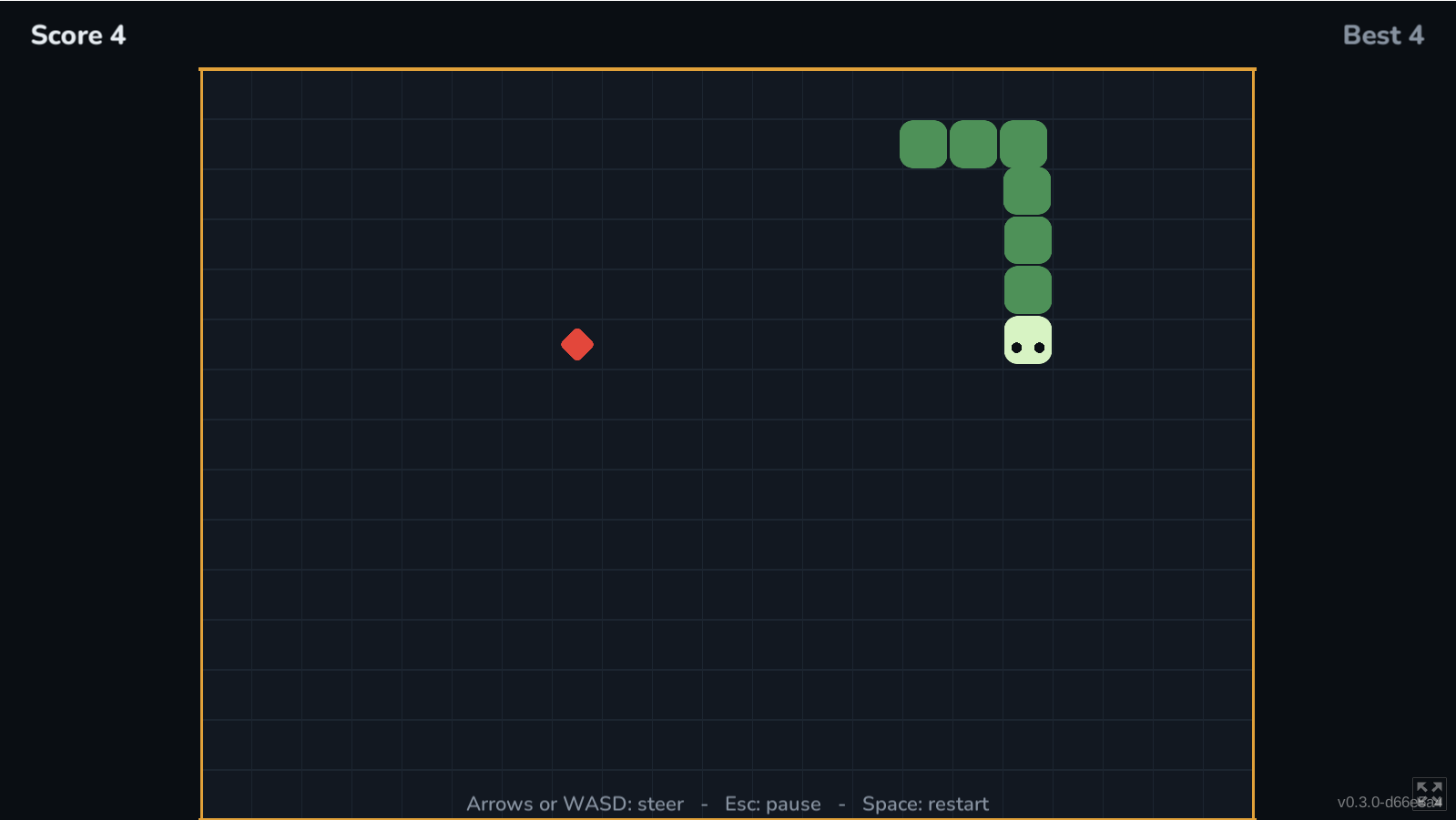
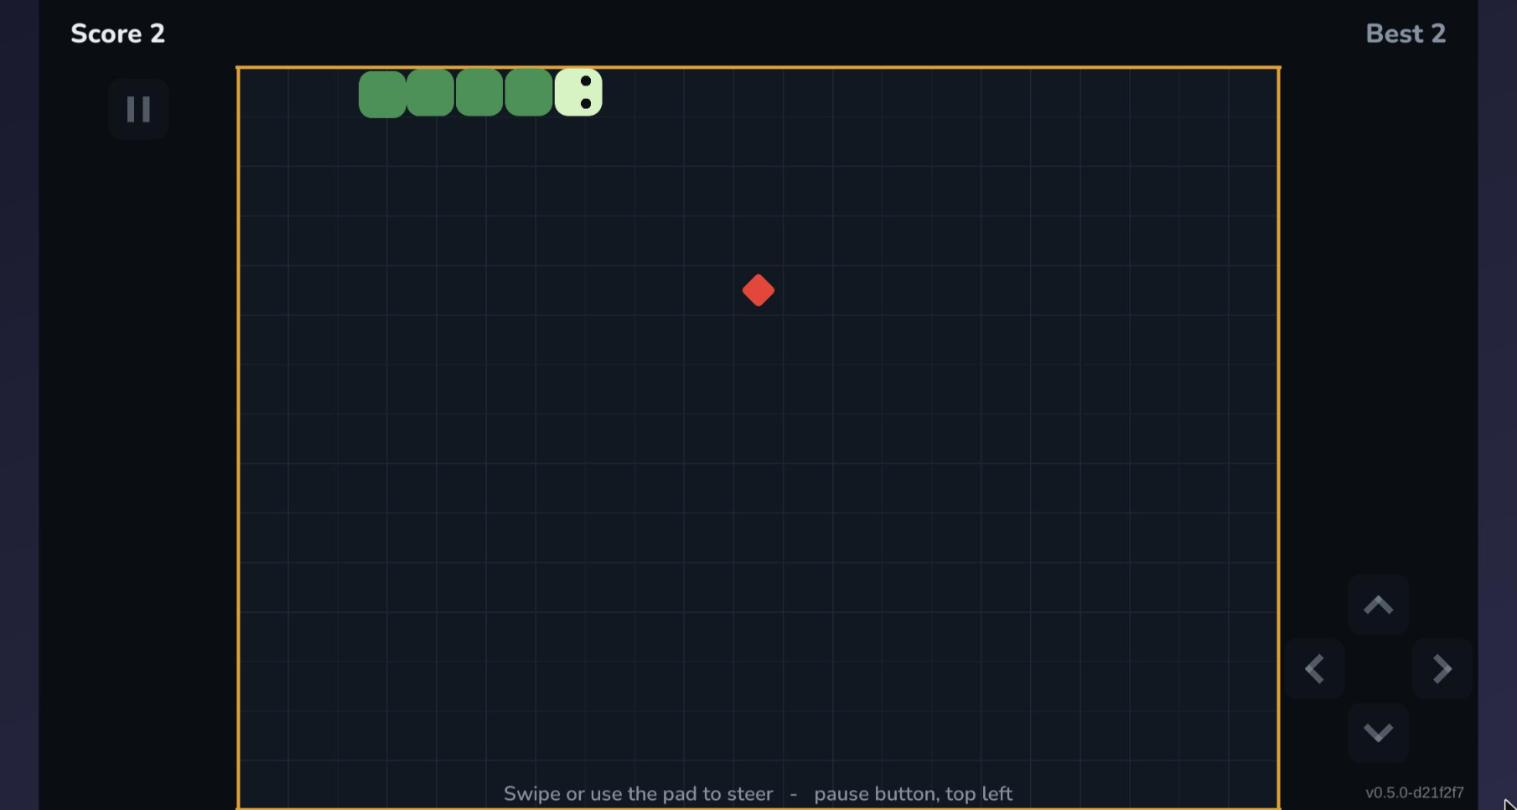
Refait les captures du store sur la 0.5.0, prises sur le build publié
Les trois captures dataient de la 0.3.0 et ne montraient ni les contrôles
tactiles ni le son. Les nouvelles sont prises dans le navigateur sur le build
RÉELLEMENT en ligne (html-classic.itch.zone, tampon v0.5.0-d21f2f7) : c'est le
jeu que le visiteur lance, pas une approximation locale.

Le build Windows a d'abord été essayé, et écarté pour quatre raisons visibles à
l'œil : le filigrane « Development Build », la barre de titre Windows avec des
bouts d'autres fenêtres sur les bords, une entrée « Quit » qui n'existe pas dans
la version web, et un « Sound: off » laissé par mes propres tests. Une capture de
vitrine doit montrer le jeu qu'on vend.

Contenu : le menu avec le bouton « Sound: on », une partie à 2 points avec la
croix tactile et le bouton pause, et l'écran de fin sur « New best: 3 ».

⚠ Elles ne sont PAS en ligne. Le widget de captures d'itch est une zone de drop
sans input[type=file] dans le DOM, exactement comme la jaquette : ni un drop
synthétique ni un champ injecté ne passent. À déposer à la main, et les quatre
anciennes restent à supprimer.

Deux rappels payés une fois de plus en jouant : une action envoyée après une
observation arrive une seconde trop tard, soit huit cases à 8 ticks/s - une
partie a été perdue comme ça, et une autre a fini au menu parce que l'Échap
d'observation est tombé sur l'écran de fin. Toute séquence doit porter sa propre
pause.

Claude-Session: https://claude.ai/code/session_01RxHEa7v5J6u8uzjLEQzNYc

diff --git a/docs/ITCH_STORE_PAGE.md b/docs/ITCH_STORE_PAGE.md
@@ -96,13 +96,16 @@ To check by hand after every publish; they were wrong for several versions on an
       accepts neither a synthetic drop nor an injected file input.
       Produced by `tools/generate_itch_cover.py`. ⚠ It carries the tagline as text: it must be
       regenerated when the page's language changes.
-- [x] **Screenshots** — three, taken IN the browser on the running build, and uploaded on 2026-08-30:
-      menu, a game at 4 points, and the end screen with "New best: 4". The `v0.3.0` stamp is visible on
-      each.
-      ⚠ They show the game's rendering, so they are **to be redone at every visible change** — the
-      0.4.0 touch controls are NOT on them.
-      ⚠ **The three old ones (French interface, faceless snake) are still online underneath**: deleting
-      them opens a confirmation dialog that froze the browser session. To finish by hand.
+- [ ] **Screenshots** — ⚠ **redone on 0.5.0 but NOT uploaded**: `docs/itch/capture-{1-menu,2-game,3-gameover}.png`
+      are the current ones (2026-08-31), taken in the browser on the **published build**
+      (`html-classic.itch.zone`, stamp `v0.5.0-d21f2f7`), showing the touch pad, the pause button, the
+      "Sound: on" toggle, a game at 2 points and an end screen at "New best: 3".
+      ⚠ **The upload must be done BY HAND**: the screenshot widget is a drop zone with no
+      `input[type=file]` in the DOM, exactly like the cover — neither a synthetic drop nor an injected
+      input is accepted (`docs/pitfalls/itch-publishing.md`).
+      ⚠ **4 screenshots are still online**, from 0.3.0: they show neither the touch controls nor the
+      sound toggle. Deleting them opens a confirmation dialog that froze a browser session once.
+      ⚠ They show the game's rendering, so they are **to be redone at every visible change**.
 
 ⚠ **Visibility**: the page is **PUBLIC** — found so on 2026-08-30. Every document in this repository
 claimed it was still in Draft, and had done since 2026-08-28. Whatever is written here is therefore
